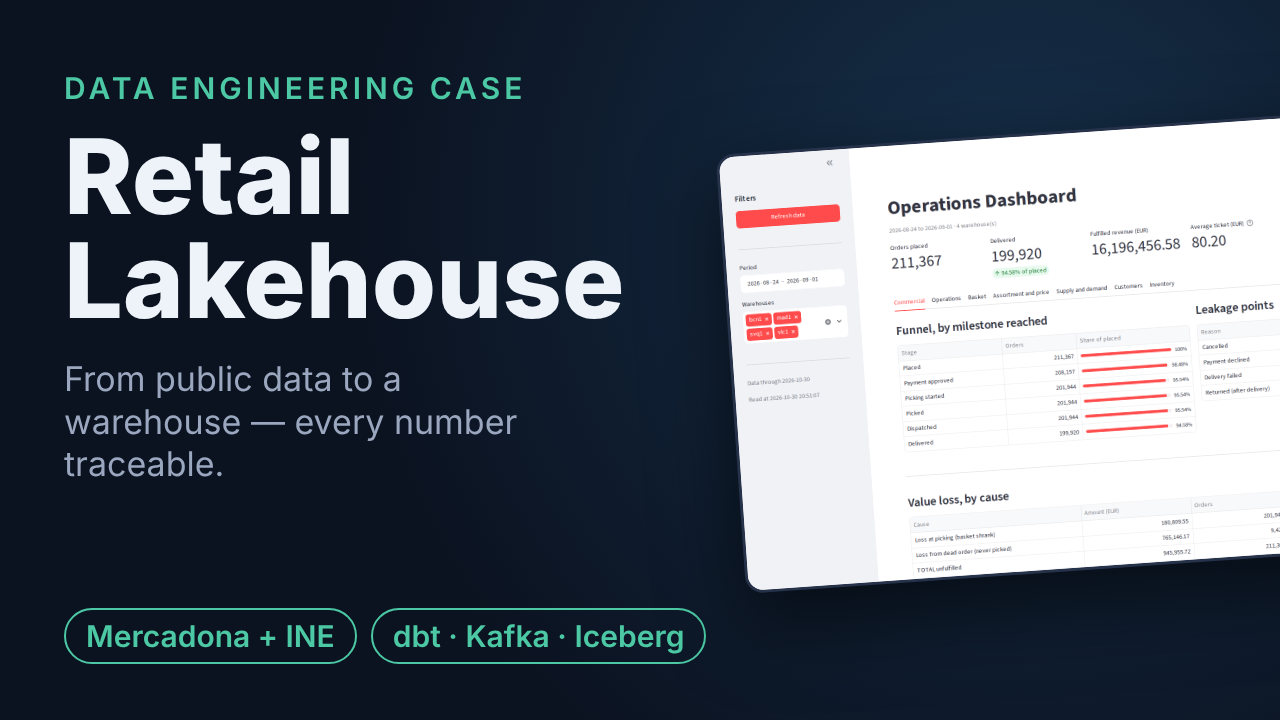
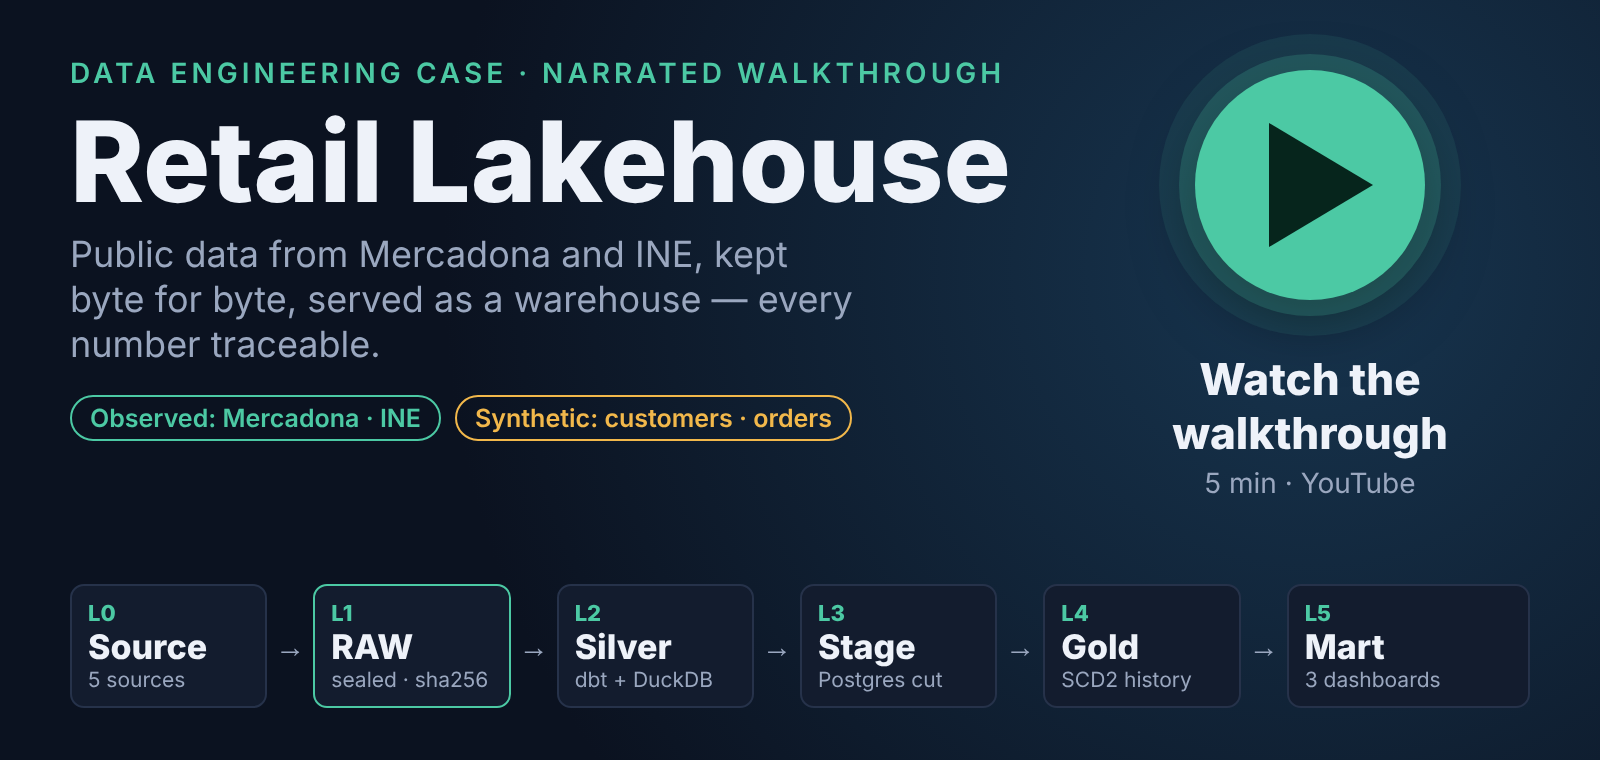
update cover youtube

diff --git a/DECISIONS.md b/DECISIONS.md
@@ -3863,19 +3863,20 @@ Evidence         The README is 300+ lines; a reader deciding whether to read it 
 Insufficiency    The README's own cover is a dashboard screenshot; it says nothing about the
                  layers, the seal or the declared limits, which are the project's argument.
 Component        README.md (one image link + three lines under the cover),
-                 docs/screens/video-cover.png (the thumbnail, read in full before linking).
+                 docs/screens/video-cover.png (a banner: play button, "Watch the walkthrough", and the
+                 L0-L5 layers; read in full before linking).
 Contracts        None. No code, data, generated page or test input changes.
 Regression       test_docs: links resolve (the image exists), README under its line ceiling.
 Semantics        The video narrates only figures already in README/FREEZE.md (167 partitions,
                  66.3%, 211,367 orders, +0.34%). Its limits scene repeats "not demonstrated".
 Provenance       The video is made outside this repository (a separate, git-ignored Remotion
                  project, `meu-video/`, not part of the platform); it is not reproducible
-                 from here and is not a source of truth. The thumbnail carries a synthetic
-                 dashboard shot already published in the README.
+                 from here and is not a source of truth. The banner carries only labels and
+                 figures already in the README (5 sources, 3 dashboards, sealed RAW).
 Reproducibility  None claimed for the video; the repository's claims do not depend on it.
 Cost             One external link: if the video is removed, the link dies (the README text
                  around it stands alone). The voice is a synthetic one.
-Proof            2026-11-11: oEmbed of the link returns the video; thumbnail opened and read.
+Proof            2026-11-11: oEmbed of the link returns the video; banner opened and read.
 Loss             The video is dated: it shows the 2026-10-30 seal and will not follow later
                  changes. It is in Spanish only.
 ```

diff --git a/README.md b/README.md
@@ -8,7 +8,7 @@ through an OLTP → Kafka → Iceberg stream plane.
 
 ![Operations dashboard — commercial tab, reading only the MART](docs/screens/dashboard/cover.png)
 
-[![Retail Lakehouse — narrated walkthrough, in Spanish](docs/screens/video-cover.png)](https://youtu.be/OrFKcvRthBU)
+[![Watch the 5-minute narrated walkthrough of Retail Lakehouse on YouTube (Spanish)](docs/screens/video-cover.png)](https://youtu.be/OrFKcvRthBU)
 
 **Watch the 5-minute narrated walkthrough** (Spanish, Spain): the layers, the sealed RAW, the
 stream plane, and what is *not* demonstrated. It tells the same story as this page, in the
